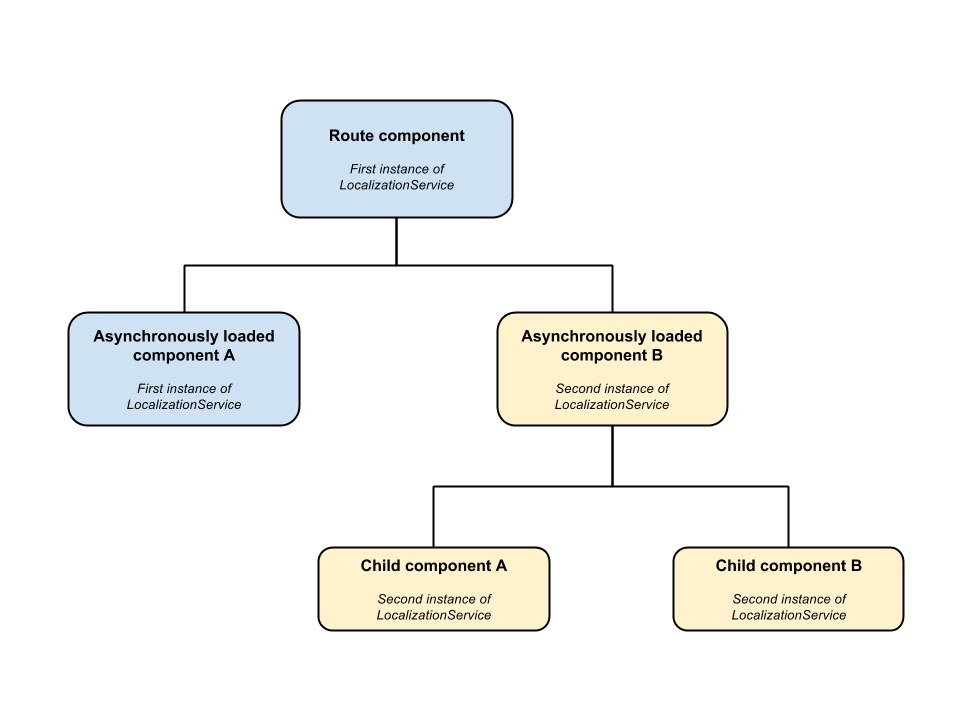
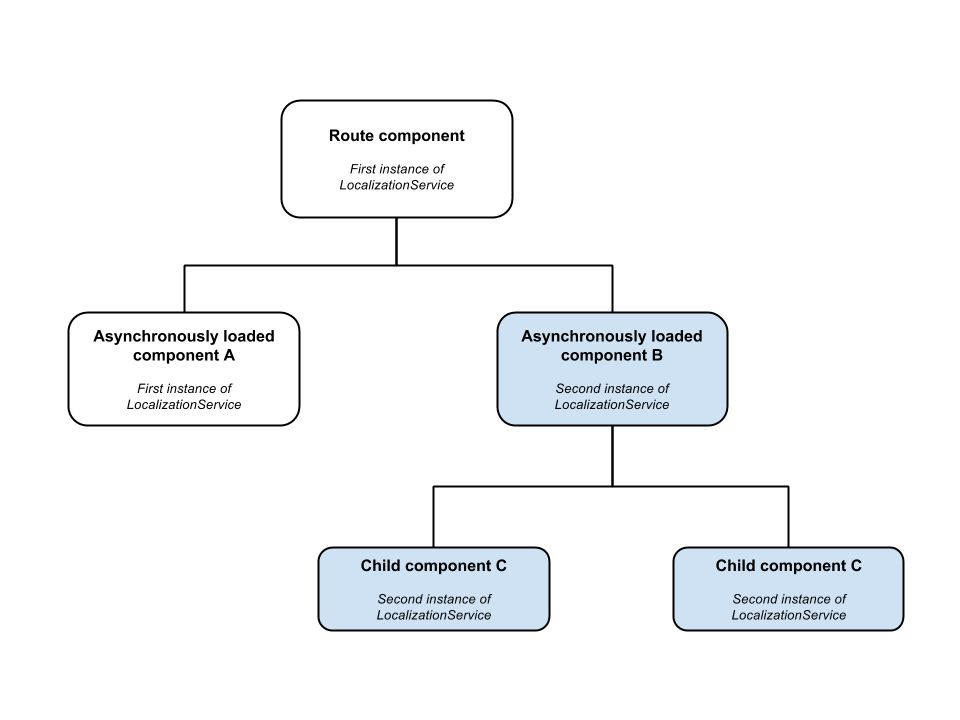
Updated lazy routing

diff --git a/doc/spec.md b/doc/spec.md
@@ -402,12 +402,16 @@ When you invoke one of them, in addition to set the language and country, you ca
 ## <a name="5"/>5 Lazy routing
 If you use a `Router` in an extended application, you can create an instance of the `LocalizationService` for every asynchronously loaded component, as shown:
 ![LazyRouting](images/LazyRouting.png)
-Each instance is different, and can be directly or asynchronously loaded, as in this example:
+Each instance must be injected, and can be directly or asynchronously loaded, as in this example:
 ```TypeScript
-export class ListComponent extends Locale {
+@Component({
+    ...
+    providers: [LocalizationService], // Inherited by all descendants.
+})
+
+export class ListComponent {
 
     constructor(public localization: LocalizationService) {
-        super(null, localization);
 
         // Instantiates a new LocalizationService for this component and for its descendants.
         this.localization.translationProvider('./resources/locale-list-'); // Required: initializes the translation provider with the given path prefix.
